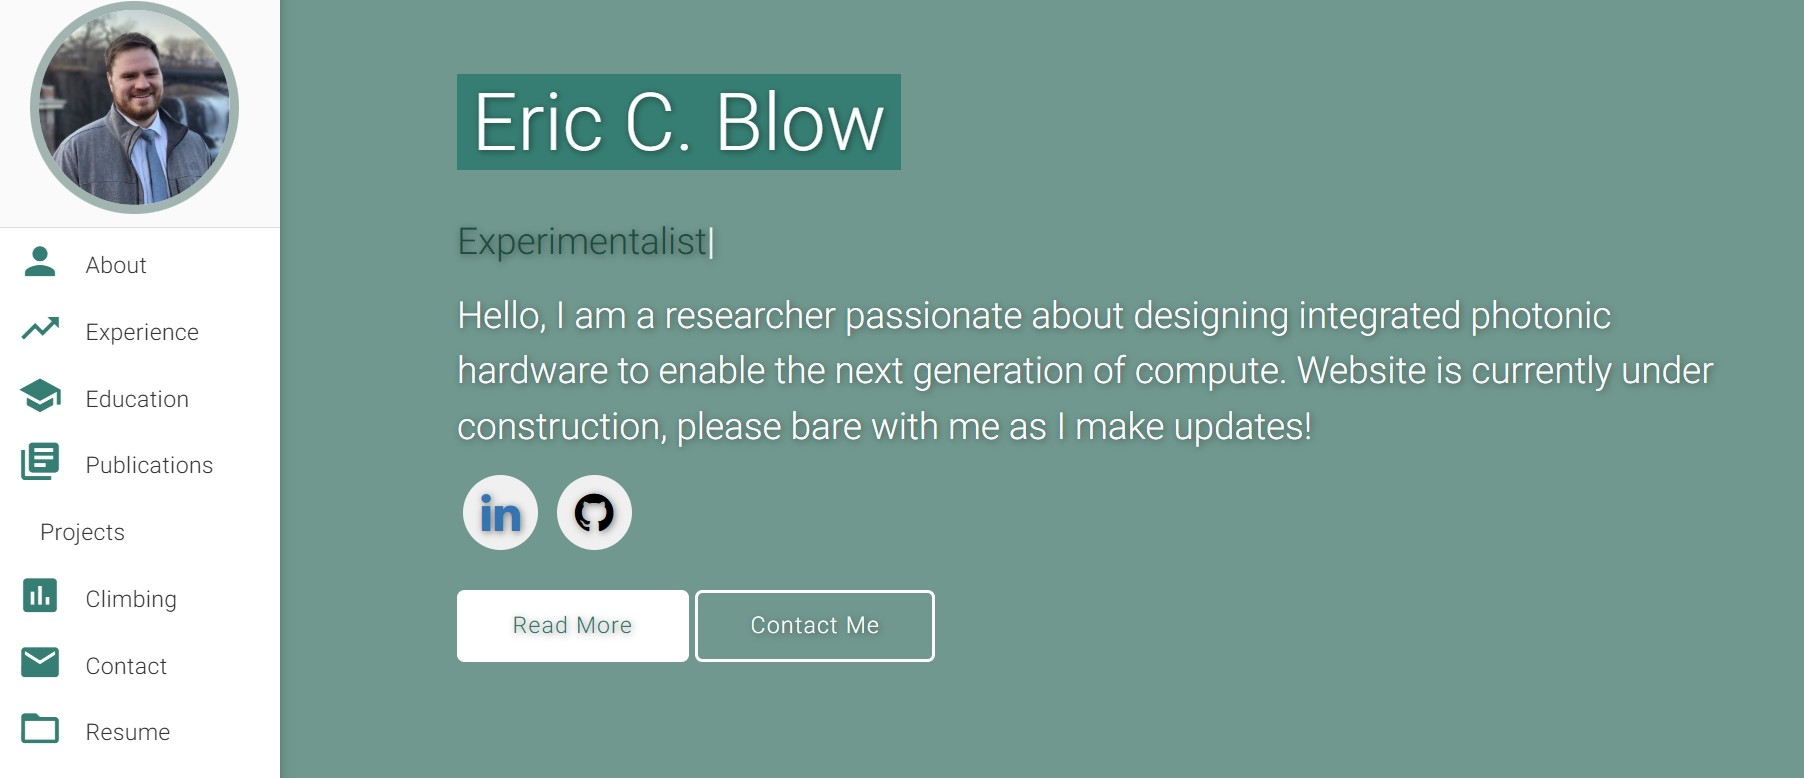
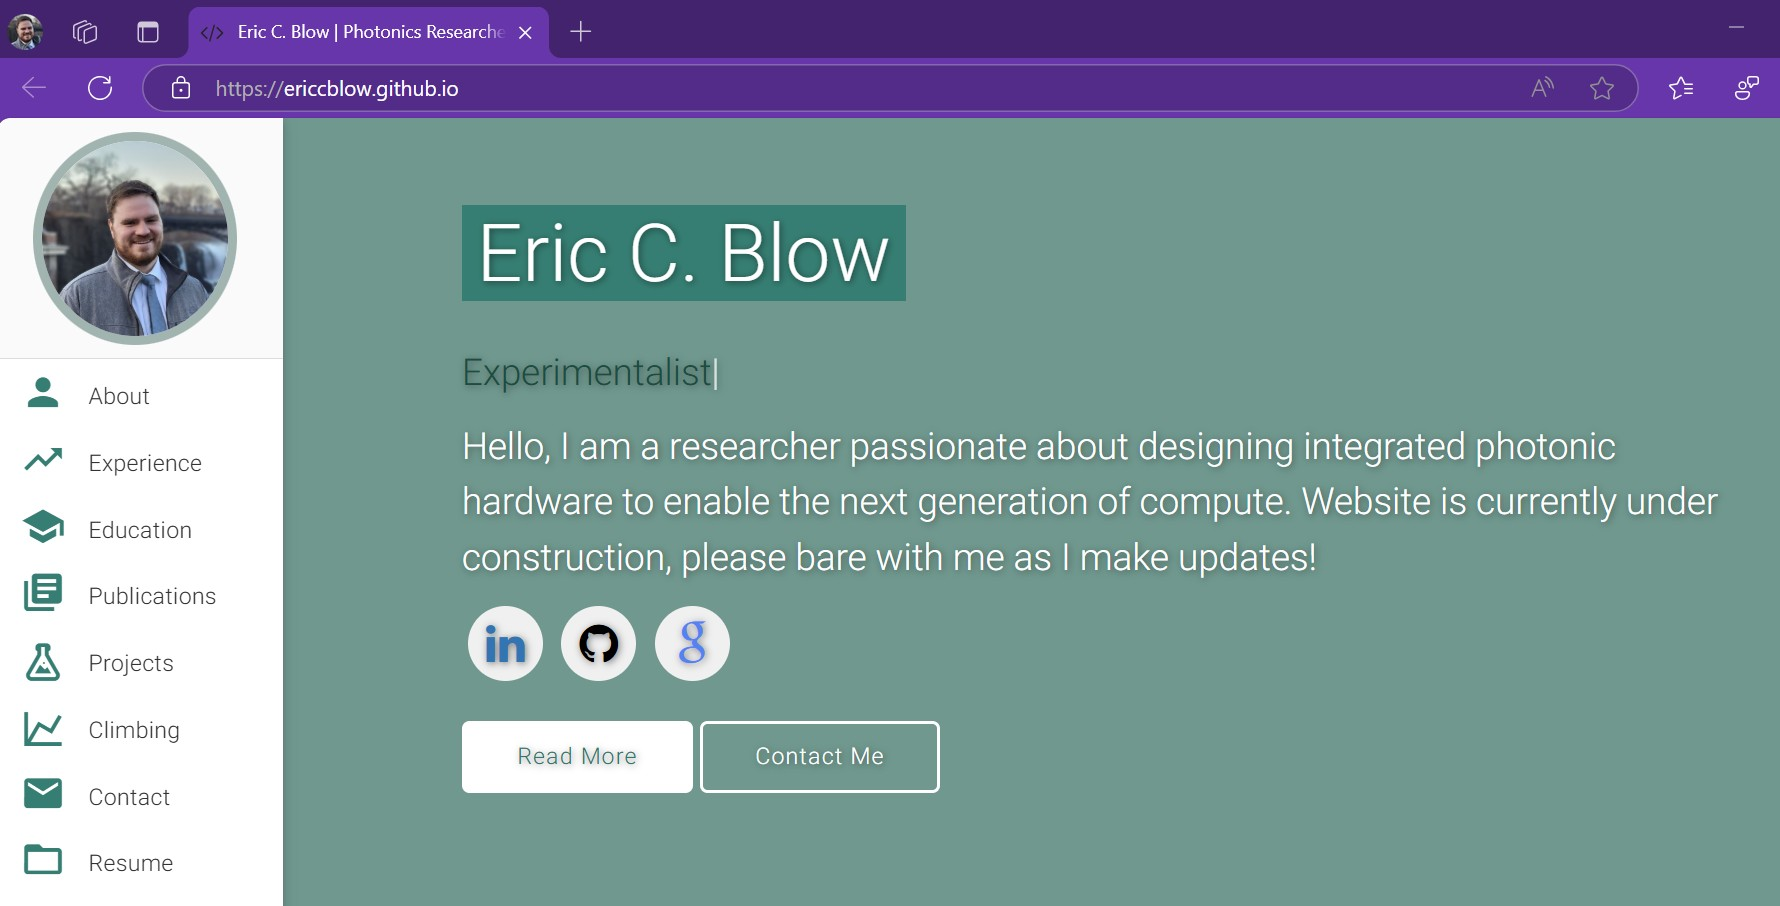
updated examples in readme, tweaked writing within finished sections

diff --git a/index.html b/index.html
@@ -214,7 +214,7 @@ reverted back to it because mdi mountain was not working, maybe try something el
           <h2><span class="teal">Eric C. Blow</span></h2>
           <h5 style="color:#fff"><span class="typing" style="font-weight: 300; color:#004d40"></span></h5>
           <!-- <h5 style="color:#00796b">A <span class="typing" style="font-weight: 300; color:#fff"></span></h5> -->
-          <h5>Hello, I am a researcher passionate about designing integrated photonic hardware to enable the next generation of compute. Website is currently under construction, please bare with me as I make updates! </h5>
+          <h5>Hello, I am a researcher who is passionate about developing integrated photonic hardware to enable the next generation of compute. Website is currently under construction, please bare with me as I make updates! </h5>
         </div>
         
         <!-- Add the image element for mobile -->
@@ -381,14 +381,14 @@ reverted back to it because mdi mountain was not working, maybe try something el
               <li>Developed novel integrated photonic analog processers to mitigate interference within wireless systems. Critical for more efficient commericial communications and maintaining communication within defense enviroments.</li>
               <li>Developed novel optical architectures for improved RF performance: Balanced Cancellers and Hybrid Cancellers. Resulting in 1000x noise performance improvement. </li>
               <li>Designed, Simulated, Fabricated, and Tested Passive Silicon, Active Silicon, Silicon Nitride, and Indium Phosphide PICs.</li>
-              <li>Trained in Lithography and Packaging specfic to integrated photonics (see thesis for recipes).
-              <li><p>Contributing developer of <a href="https://github.com/lightwave-lab/lightlab" class="link-style">lab automation software</a>.</p></li>
+              <li>Trained in <b>Lithography and packaging</b> specfic to integrated photonics (see thesis for recipes).
+              <li><p>Contributing <b>developer</b> of lab automation software, <a href="https://github.com/lightwave-lab/lightlab" class="link-style">lightlab.</a>.</p></li>
               <li>Authored 6+ sucessful research grants resulting in over 1 million USD in funding.</li>
               <li>Authored 2 book chapters and 30+ journal papers within the field of microwave and neuromorphic photonics. </li>
-              <li>Reviewer for IEEE, JLT, PTL</li>
-              <li>Teach Assistant and Guest Lecturer: Photonic Systems, Silicon Photonics, Photonics and Light Wave Communication, and Intro to Engineering</li>
+              <li><b>Reviewer</b> for IEEE, JLT, PTL</li>
+              <li><b>Teaching Assistant and Guest Lecturer: </b>Photonic Systems, Silicon Photonics, Photonics and Light Wave Communication, and Intro to Engineering</li>
               <li>
-                <b>Tape Out Lead :</b>  Indium Phosphide (HHI/JePPIX), Passive Silicon (ANT), Silicon Nitride (LioniX), and Active Silicon (AMF) 
+                <b>Tape Outs:</b>  Indium Phosphide (HHI/JePPIX), Passive Silicon (ANT), Silicon Nitride (LioniX), Active Silicon (AMF), Co-Integrated InP/Si/SiN (Tower) 
               </li>
               <li><p><b>PhD Thesis:</b><a href="https://www.proquest.com/docview/2922721201?pq-origsite=primo" class="link-style">Microwave Photonic Interference Cancellation: RF Analysis, III-V and Silicon Integration, Development of Balanced and Hybrid Architectures</a></p></li>
             </ul>
@@ -417,10 +417,10 @@ reverted back to it because mdi mountain was not working, maybe try something el
             <ul>
               <li> Member of Nonlinear Photonics Laboratory - Advisor: Professor David McGee </li>
               <li> Research focused on linear and nonlinear optical techniques to probe and characterize novel optoelectrical materials. </li>
-              <li> Studied optical and electrical properties of Chromophore-Functionalized Carbon Nanotubes. </li>
-              <li> Responsible for conducting numerous experiments including optical switching, birefringence, and surface relief gratings. </li>
+              <li> Studied optical and electrical properties of <b>Chromophore-Functionalized Carbon Nanotubes</b>. </li>
+              <li> Responsible for conducting experiments involving optical switching, birefringence, and surface relief gratings. </li>
               <li> Conducted second harmonic generation experiments to determine orientational order of organic dimolecule.  </li>
-              <li> Responsible for development of automated control and data acquisition for experiments using LabVIEW software. </li>
+              <li> <b>Developer of lab automation</b>, control and data acquisition, using LabVIEW software. </li>
               <li>
                 <b>Relevant Skills:</b> LabVIEW and Free Space Optics
               </li>
@@ -535,7 +535,7 @@ reverted back to it because mdi mountain was not working, maybe try something el
 
   <!-- Fifth Section: Publications -->
   <section id="publications" class="section scrollspy">
-    <h3 class="page-title white-text teal">Publications</h3>
+    <h3 class="page-title white-text teal">Publications (Under Construction)</h3>
     <div class="container flow-text">
           <div class="social">
       <a href="https://scholar.google.com/citations?user=icvwMmMAAAAJ&hl=en&oi=ao" target="_blank">
@@ -609,7 +609,7 @@ reverted back to it because mdi mountain was not working, maybe try something el
                 <img alt="music streaming app" src="/assets/img/PhotonicCompanyMap2.png" style="height: 100%; width: 100%" class="activator" />
               </div>
               <div class="card-content">
-                <span class="card-title activator teal-text hoverline">Photonic Companies Map<i
+                <span class="card-title activator teal-text hoverline">Photonic Industries<i
                     class="mdi-navigation-more-vert right"></i></span>
                 <p>
                   An interactive map of current companies conducting integrated photonic work. 
@@ -651,7 +651,7 @@ reverted back to it because mdi mountain was not working, maybe try something el
                 <span class="card-title activator teal-text hoverline">Climbing Data Visualizer<i
                     class="mdi-navigation-more-vert right"></i></span>
                 <p>
-                  Python-based tools for downloading, analyzing, and visualizing your and your friends' mountain project data.
+                  Python-based tools for downloading, analyzing, and visualizing mountain project data.
                 </p>
               </div>
               <div class="card-reveal">
@@ -683,7 +683,7 @@ reverted back to it because mdi mountain was not working, maybe try something el
                 <span class="card-title activator teal-text hoverline">Photonic Canceller Sims<i
                     class="mdi-navigation-more-vert right"></i></span>
                 <p>
-                  Python-based simulations for photonic interference cancellers. Featured in 2023 PhD Thesis.
+                  Simulations for photonic interference cancellers. Featured in 2023 PhD Thesis.
                 </p>
               </div>
               <div class="card-reveal">
@@ -693,6 +693,7 @@ reverted back to it because mdi mountain was not working, maybe try something el
                   <li>Cancellation depth calculations</li>
                   <li>Amplitude and phase mismatch plots</li>
                   <li>Generalized schedmatics for cancellation architectures </li>
+                  <li>Python-based jupyter notebooks.</li>
                 </ul>
                 <div class="card-action">
                   <a aria-label="Visit the GitHub repo for  project" href="https://github.com/ericcblow/MicrowavePhotonicSimulations"
@@ -704,7 +705,7 @@ reverted back to it because mdi mountain was not working, maybe try something el
             </div>
           </div>
 
-          <!-- Microwave Photonic SimulationsPhotonic Canceller Simulations Project -->
+          <!-- Microwave Photonic Simulations Project -->
           <div class="col s12 m6 l4">
             <div class="card medium">
               <div class="card-image waves-effect waves-block waves-light">
@@ -714,7 +715,7 @@ reverted back to it because mdi mountain was not working, maybe try something el
                 <span class="card-title activator teal-text hoverline">RF Photonic Simulations<i
                     class="mdi-navigation-more-vert right"></i></span>
                 <p>
-                  Python-based simulations for RF photonic systems and cancellers. Featured in 2023 PhD Thesis.
+                  Simulations for RF photonic systems and cancellers. Featured in 2023 PhD Thesis.
                 </p>
               </div>
               <div class="card-reveal">
@@ -722,7 +723,8 @@ reverted back to it because mdi mountain was not working, maybe try something el
                     class="mdi-navigation-close right"></i></span>
                 <ul>
                   <li>General RF Analysis: Link Loss, Noise Figure, Dynamic Range</li>
-                  <li>RF performance as function of nonlinear loss within silicon photonic waveguide </li>
+                  <li>RF performance as function of linear and nonlinear loss within silicon photonic waveguide </li>
+                  <li>Python-based jupter notebooks</li>
                 </ul>
                 <div class="card-action">
                   <a aria-label="Visit the GitHub repo for  project" href="https://github.com/ericcblow/MicrowavePhotonicSimulations"
@@ -744,7 +746,7 @@ reverted back to it because mdi mountain was not working, maybe try something el
                 <span class="card-title activator teal-text hoverline">Silicon Photonic Simulations<i
                     class="mdi-navigation-more-vert right"></i></span>
                 <p>
-                  Python-based simulation for silicon photonic devices: waveguides, resonators, couplers, etc...
+                  Simulation for silicon photonics: waveguides, resonators, couplers, etc...
                 </p>
               </div>
               <div class="card-reveal">
@@ -775,7 +777,7 @@ reverted back to it because mdi mountain was not working, maybe try something el
                 <span class="card-title activator teal-text hoverline">RF Electronic Simulations<i
                     class="mdi-navigation-more-vert right"></i></span>
                 <p>
-                  Python-based simulation for RF electronics devices: waveguides, impedance matching, etc...
+                  Simulations for RF electronics: waveguides, impedance matching, etc...
                 </p>
               </div>
               <div class="card-reveal">

diff --git a/README.md b/README.md
@@ -3,7 +3,7 @@
 Currently under construction.
 
 To do: 
--  Publications, Projects, Climbing
+-  Improve Readibility of Publications, Climbing
 
 > https://ericcblow.github.io
 
@@ -14,6 +14,16 @@ To do:
 [![Ask Me Anything !](https://img.shields.io/badge/ask%20me-linkedin-1abc9c.svg)](https://www.linkedin.com/in/ericcblow/)
 [![License](http://img.shields.io/:license-mit-blue.svg?style=flat-square)](http://badges.mit-license.org)
 
+## Sections 📚
+✔ About me \
+✔ Experience \
+✔ Education \
+✔ Publications \
+✔ Projects \
+✔ Climbing \
+✔ Contact Info \
+✔ Resume
+
 ### Website Preview
 <p align="center"> 
   <kbd>
@@ -23,12 +33,10 @@ To do:
 </p>
 
 
-## Sections 📚
-✔ About me \
-✔ Experience \
-✔ Education \
-✔ Publications \
-✔ Projects \
-✔ Climb \
-✔ Contact Info \
-✔ Resume
+### Website Mobile Preview
+<p align="center"> 
+  <kbd>
+    <a href="https://ericcblow.github.io" target="_blank"><img src="/examples/mobile_preview.jpg">
+  </a>
+  </kbd>
+</p>
